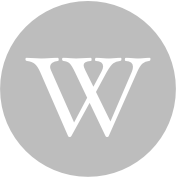
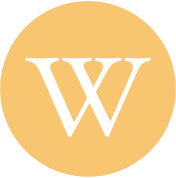
Backup

diff --git a/PureWiki/PWPWikiPageImageWell.m b/PureWiki/PWPWikiPageImageWell.m
@@ -65,11 +65,16 @@
     }
 
 #pragma mark Accessors
+- ( NSImage* ) __fuckingImage
+    {
+    return self->__isHostRowViewSelected ? [ NSImage imageNamed: PWArtworkWikiPageImageHighlighted ] : [ NSImage imageNamed: PWArtworkWikiPageImageNormal ];
+    }
+
 - ( void ) setWikiPage: ( WikiPage* )_WikiPage
     {
     [ self.cell setHighlighted: NO ];
 
-    NSImage* normalDefaultContentPreview = [ NSImage imageNamed: PWArtworkWikiPageImageNormal ];
+//    NSImage* [ self __fuckingImage ] = [ self __fuckingImage ];
 
     if ( self->_wikiPage != _WikiPage )
         {
@@ -80,7 +85,7 @@
                 {
                 if ( [ _Response.MIMEType isEqualToString: @"image/svg+xml" ] )
                     // TODO: Looking forward to integrate with the SVG converter tools like SVGKit
-                    [ self performSelectorOnMainThread: @selector( setImage: ) withObject: normalDefaultContentPreview waitUntilDone: NO ];
+                    [ self performSelectorOnMainThread: @selector( setImage: ) withObject: [ self __fuckingImage ] waitUntilDone: NO ];
                 else
                     {
                     NSImage* wikiPageImage = [ [ NSImage alloc ] initWithData: _ImageData ];
@@ -132,11 +137,11 @@
                 } failure:
                     ^( NSError* _Error )
                         {
-                        [ self performSelectorOnMainThread: @selector( setImage: ) withObject: normalDefaultContentPreview waitUntilDone: NO ];
+                        [ self performSelectorOnMainThread: @selector( setImage: ) withObject: [ self __fuckingImage ] waitUntilDone: NO ];
                         }  stopAllOtherTasks: YES ];
                 }
         else
-            [ self setImage: normalDefaultContentPreview ];
+            [ self setImage: [ self __fuckingImage ] ];
         }
     }
 
@@ -196,6 +201,17 @@
 - ( Class ) cellClass
     {
     return [ PWWikiPageImageCell class ];
+    }
+
+#pragma mark Conforms to <PWSubviewOfSidebarTableRowView>
+- ( void ) setHostRowViewSelected: ( BOOL )_YesOrNo
+    {
+    self->__isHostRowViewSelected = _YesOrNo;
+    }
+
+- ( BOOL ) isHostRowViewSelected
+    {
+    return self->__isHostRowViewSelected;
     }
 
 #pragma mark Private Interfaces

diff --git a/PureWiki/PWPWikiPageImageWell.h b/PureWiki/PWPWikiPageImageWell.h
@@ -22,7 +22,7 @@
   ████████████████████████████████████████████████████████████████████████████████
   ██████████████████████████████████████████████████████████████████████████████*/
 
-@import Cocoa;
+#import "PWSidebarTableRowView.h"
 
 @class AFHTTPSessionManager;
 
@@ -30,7 +30,7 @@
 @class WikiPage;
 
 // PWPWikiPageImageWell class
-@interface PWPWikiPageImageWell : NSImageView
+@interface PWPWikiPageImageWell : NSImageView <PWSubviewOfSidebarTableRowView>
     {
 @private
     WikiEngine __strong* _wikiEngine;
@@ -41,6 +41,8 @@
 
     NSTrackingAreaOptions _trackingAreaOptions;
     NSTrackingArea __strong* _trackingArea;
+
+    BOOL __isHostRowViewSelected;
     }
 
 @property ( strong, readwrite ) WikiPage* wikiPage;

diff --git a/PureWiki/PWSidebarTabsTableCell.m b/PureWiki/PWSidebarTabsTableCell.m
@@ -82,6 +82,7 @@
 
         [ self->__openedPageContentPreivewTitleField setHostRowViewSelected: self->__isHostRowViewSelected ];
         [ self->__openedPageContentPreviewView setHostRowViewSelected: self->__isHostRowViewSelected ];
+        [ self.pageImageView setHostRowViewSelected: self->__isHostRowViewSelected ];
         }
     }
 
